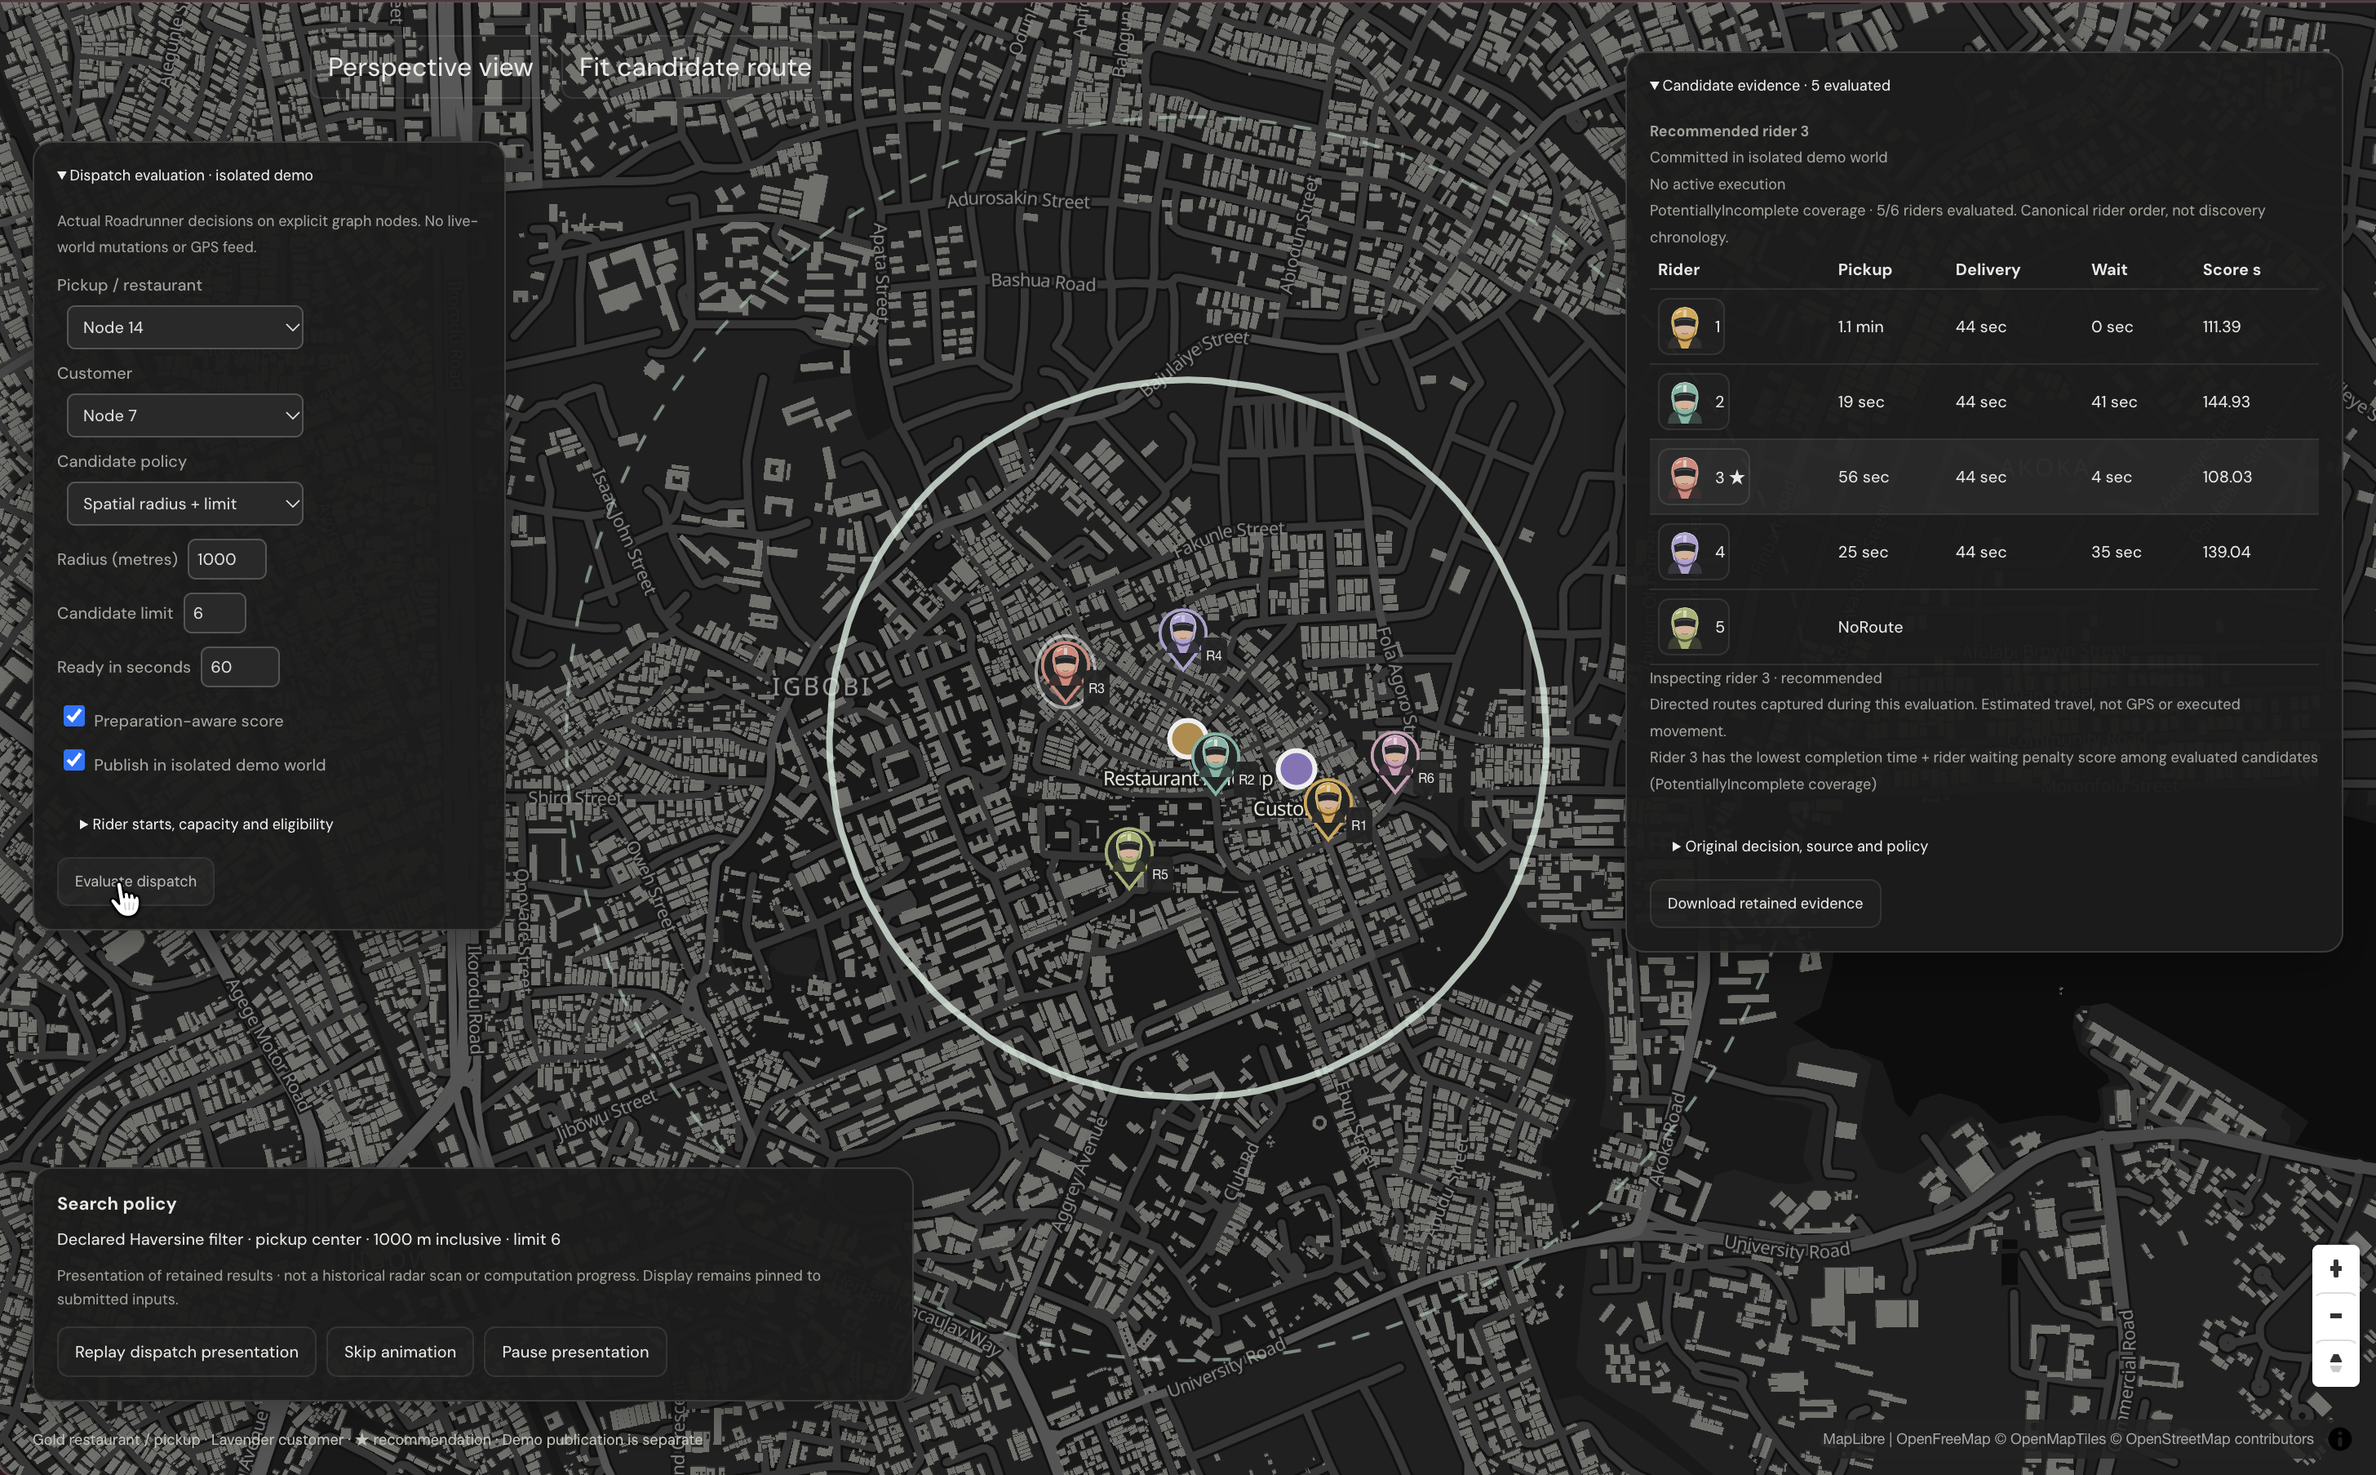
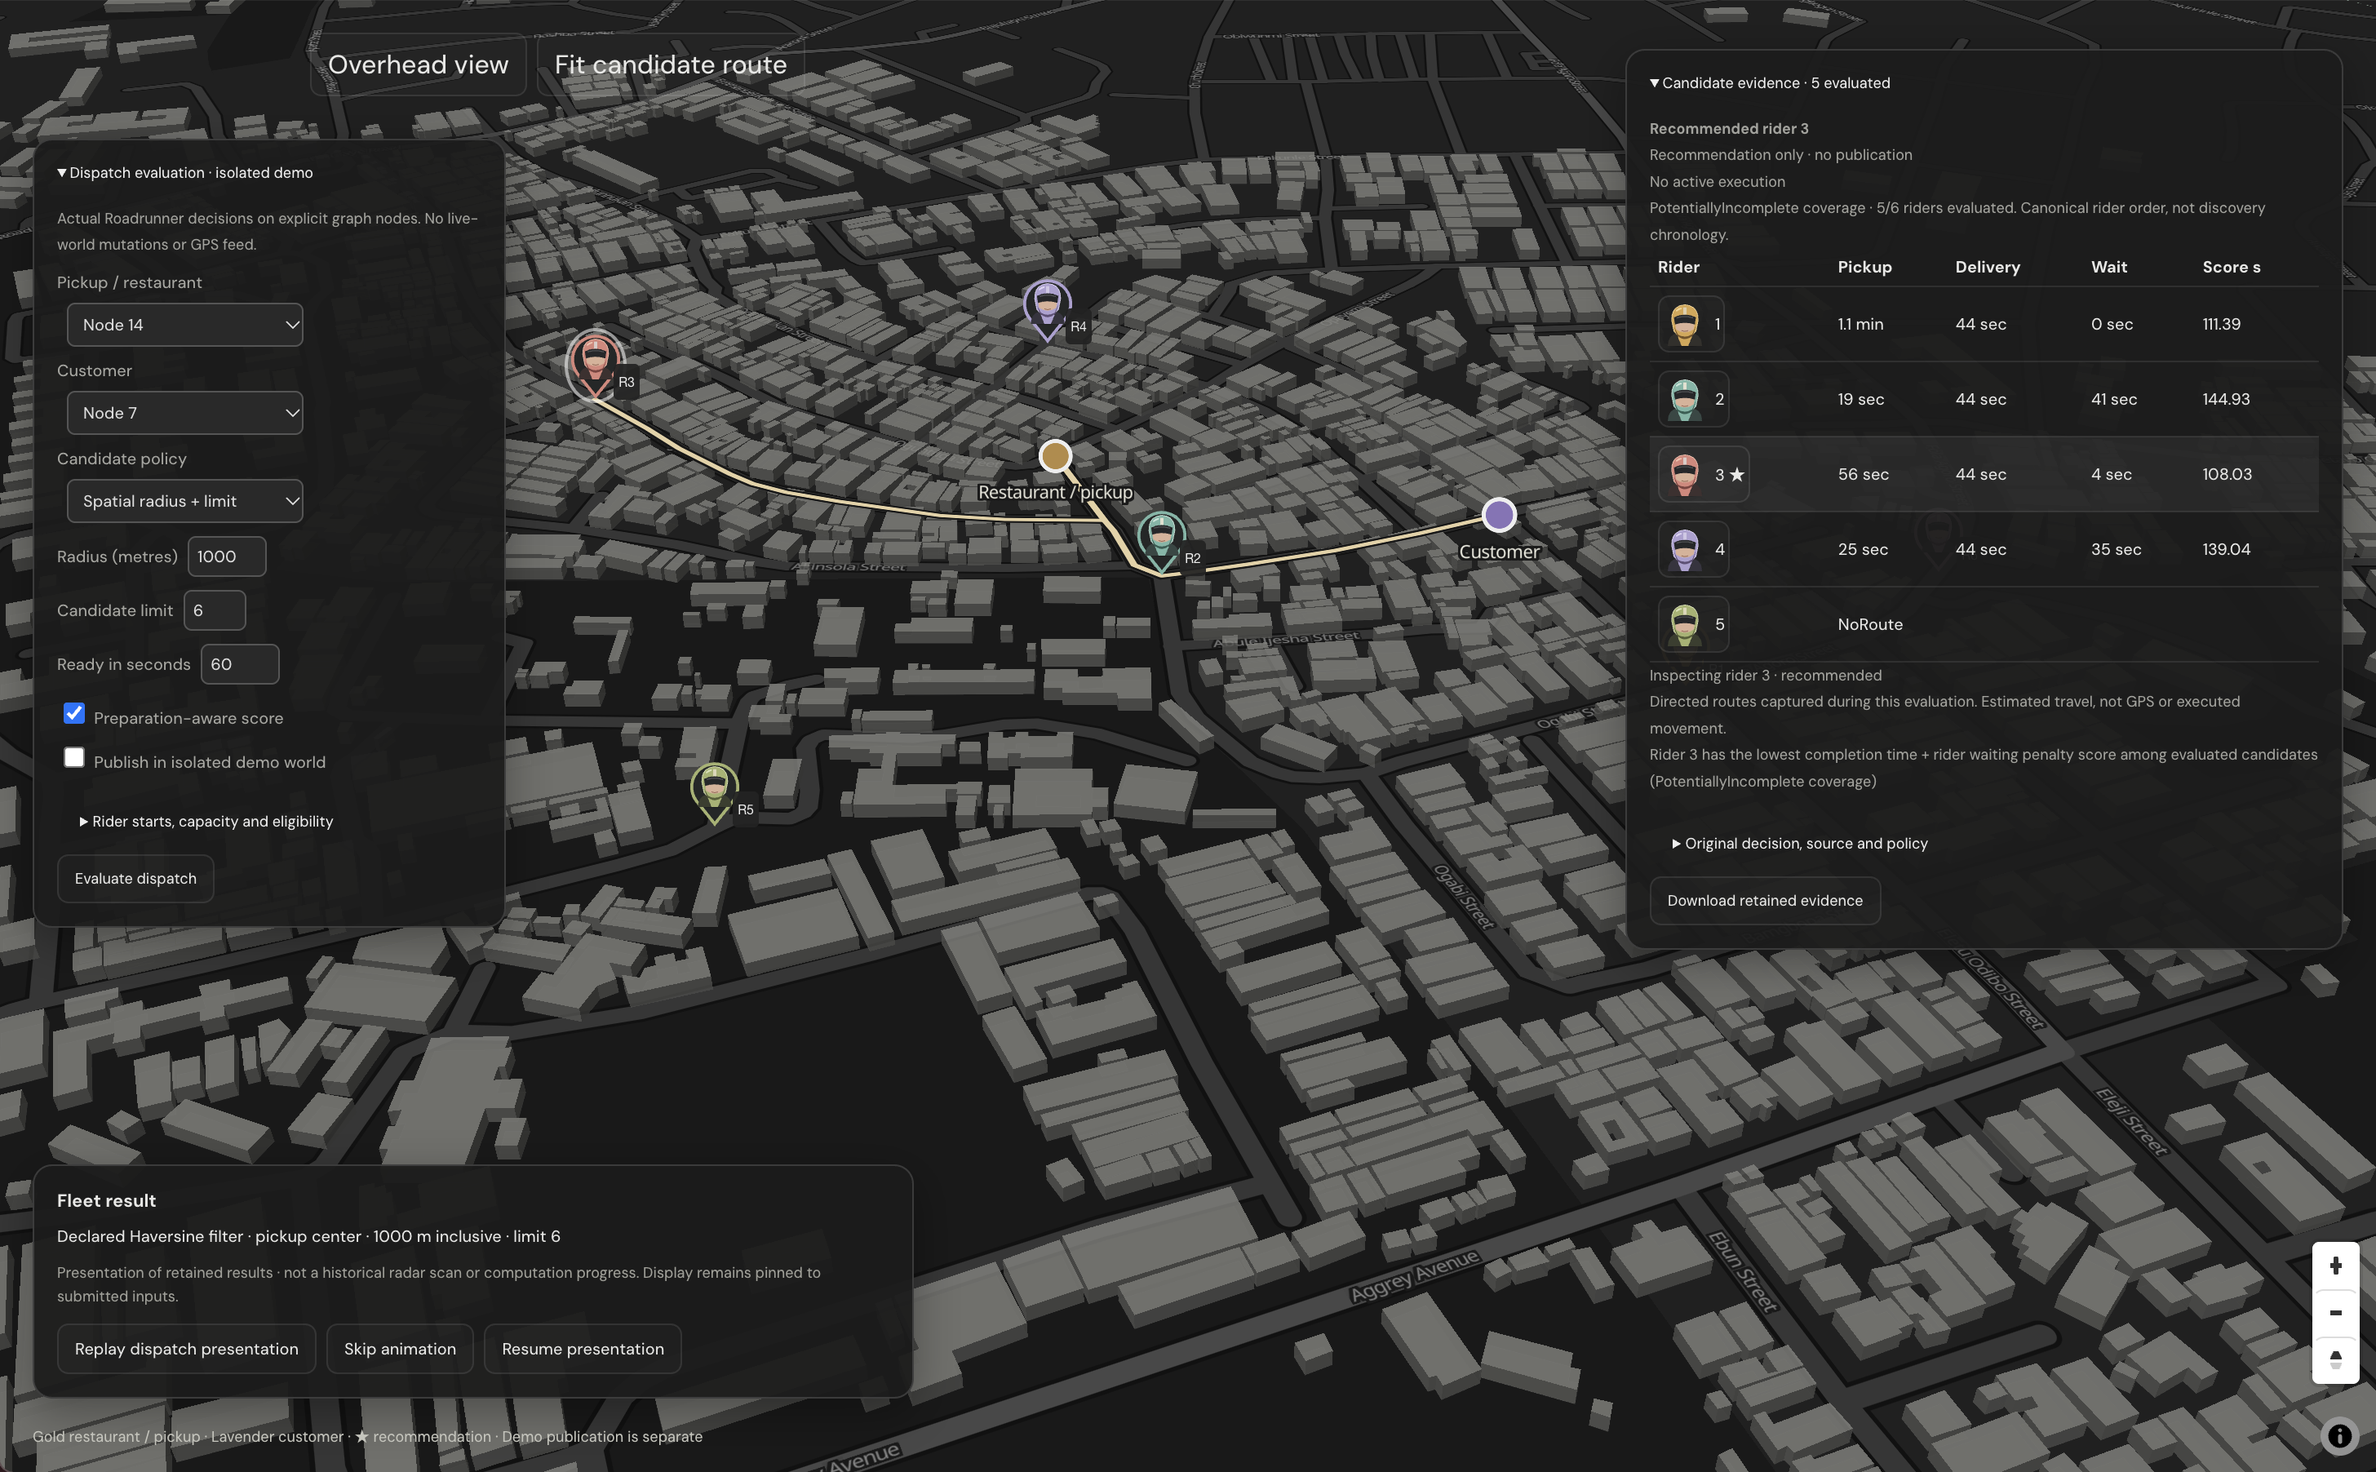
fix(web): improve workspace entry and responsive navigation

diff --git a/web/src/Site.tsx b/web/src/Site.tsx
@@ -1,17 +1,39 @@
-import { useEffect } from "react";
+import { useEffect, useRef, useState } from "react";
 import {
   ArrowRight,
   Route,
   ScanLine,
   FlaskConical,
   BookOpen,
-  Github,
+  Menu,
+  X,
   ArrowUpRight,
 } from "lucide-react";
 import { EngineDemo } from "./EngineDemo";
 import { Documentation } from "./Documentation";
 const repository = "https://github.com/404khai/roadrunner";
 export function Site() {
+  const [menuOpen, setMenuOpen] = useState(false);
+  const header = useRef<HTMLElement>(null),
+    menuButton = useRef<HTMLButtonElement>(null);
+  useEffect(() => {
+    if (!menuOpen) return;
+    const key = (event: KeyboardEvent) => {
+      if (event.key === "Escape") {
+        setMenuOpen(false);
+        menuButton.current?.focus();
+      }
+    };
+    const outside = (event: PointerEvent) => {
+      if (!header.current?.contains(event.target as Node)) setMenuOpen(false);
+    };
+    document.addEventListener("keydown", key);
+    document.addEventListener("pointerdown", outside);
+    return () => {
+      document.removeEventListener("keydown", key);
+      document.removeEventListener("pointerdown", outside);
+    };
+  }, [menuOpen]);
   const docs = window.location.pathname.startsWith("/docs");
   useEffect(() => {
     document.title = docs
@@ -23,18 +45,37 @@ export function Site() {
       <a className="skip-content" href="#content">
         Skip to content
       </a>
-      <header className="site-header">
+      <header className="site-header" ref={header}>
         <a className="brand" href="/" aria-label="Roadrunner home">
           <img src="/roadrunner-mark.png" alt="" /> roadrunner
         </a>
-        <nav aria-label="Main navigation">
+        <button
+          ref={menuButton}
+          className="menu-toggle"
+          type="button"
+          aria-label={menuOpen ? "Close navigation" : "Open navigation"}
+          aria-expanded={menuOpen}
+          aria-controls="site-navigation"
+          onClick={() => setMenuOpen((open) => !open)}
+        >
+          {menuOpen ? <X size={23} /> : <Menu size={23} />}
+        </button>
+        <nav
+          id="site-navigation"
+          aria-label="Main navigation"
+          data-open={menuOpen}
+          onClick={() => setMenuOpen(false)}
+        >
           <a href="/#engine">The engine</a>
           <a href="/#how-it-works">How it works</a>
           <a href="/docs" aria-current={docs ? "page" : undefined}>
             Documentation
           </a>
+          <a className="site-button compact mobile-workspace" href="/workspace">
+            <Route size={16} /> Open workspace
+          </a>
         </nav>
-        <a className="site-button compact" href="/workspace">
+        <a className="site-button compact desktop-workspace" href="/workspace">
           Open workspace <ArrowUpRight size={15} />
         </a>
       </header>
@@ -45,7 +86,7 @@ export function Site() {
         </a>
         <span>Routing, dispatch & delivery simulation.</span>
         <a className="footer-icon-link" href={repository}>
-          <Github size={16} aria-hidden="true" /> GitHub
+          <GitHubMark size={16} /> GitHub
         </a>
         <a className="footer-icon-link" href="/docs">
           <BookOpen size={16} aria-hidden="true" /> Documentation
@@ -270,7 +311,7 @@ function Landing() {
         </p>
         <div className="site-actions">
           <a className="site-button" href={repository}>
-            <Github size={18} aria-hidden="true" /> View on GitHub
+            <GitHubMark size={18} /> View on GitHub
           </a>
           <a className="site-button secondary" href="/docs">
             <BookOpen size={18} aria-hidden="true" /> Read the documentation
@@ -281,5 +322,20 @@ function Landing() {
         </p>
       </section>
     </main>
+  );
+}
+
+function GitHubMark({ size }: { size: number }) {
+  return (
+    <svg
+      width={size}
+      height={size}
+      viewBox="0 0 24 24"
+      fill="currentColor"
+      aria-hidden="true"
+      className="github-mark"
+    >
+      <path d="M12 .297C5.37.297 0 5.67 0 12.297c0 5.303 3.438 9.8 8.205 11.385.6.113.82-.258.82-.577 0-.285-.01-1.04-.015-2.04-3.338.724-4.043-1.61-4.043-1.61-.546-1.387-1.333-1.756-1.333-1.756-1.09-.745.083-.729.083-.729 1.205.084 1.838 1.237 1.838 1.237 1.07 1.835 2.809 1.305 3.495.998.108-.776.418-1.305.762-1.605-2.665-.305-5.467-1.334-5.467-5.931 0-1.31.467-2.381 1.235-3.221-.123-.303-.535-1.524.117-3.176 0 0 1.008-.322 3.301 1.23a11.52 11.52 0 0 1 3.003-.404c1.02.005 2.047.138 3.006.404 2.291-1.552 3.297-1.23 3.297-1.23.654 1.652.242 2.873.119 3.176.77.84 1.233 1.911 1.233 3.221 0 4.609-2.807 5.624-5.479 5.921.43.372.823 1.102.823 2.222 0 1.606-.015 2.898-.015 3.293 0 .322.216.694.825.576C20.565 22.092 24 17.597 24 12.297c0-6.627-5.373-12-12-12" />
+    </svg>
   );
 }

diff --git a/web/src/site.css b/web/src/site.css
@@ -14,8 +14,7 @@
   text-decoration: none;
 }
 .site a:hover {
-  text-decoration: underline;
-  text-underline-offset: 5px;
+  text-decoration: none;
 }
 .site button:focus-visible,
 .site a:focus-visible,
@@ -1002,4 +1001,93 @@ body[data-surface="site"] {
 }
 .site .footer-icon-link svg {
   flex-shrink: 0;
+}
+
+.site-header {
+  position: sticky;
+  top: 0;
+  z-index: 100;
+  background: #fafaf6f5;
+  backdrop-filter: blur(14px);
+}
+.site .menu-toggle,
+.site .mobile-workspace {
+  display: none;
+}
+.site .menu-toggle {
+  align-items: center;
+  justify-content: center;
+  width: 44px;
+  height: 44px;
+  border: 1px solid var(--line);
+  border-radius: 7px;
+  background: transparent;
+  color: var(--ink);
+}
+.site a:hover {
+  text-decoration: none;
+}
+.site-header nav > a:not(.site-button):hover {
+  color: var(--sage);
+}
+.site .site-button:hover {
+  filter: brightness(1.1);
+}
+.site section[id],
+.site #demo {
+  scroll-margin-top: 120px;
+}
+.site .github-mark {
+  display: block;
+  flex-shrink: 0;
+}
+@media (max-width: 800px) {
+  .site .site-header {
+    height: 76px;
+    min-height: 76px;
+    flex-wrap: nowrap;
+    padding: 12px 24px;
+  }
+  .site .desktop-workspace {
+    display: none;
+  }
+  .site .menu-toggle {
+    display: inline-flex;
+    margin-left: auto;
+  }
+  .site .site-header nav {
+    display: none;
+    position: absolute;
+    top: 100%;
+    left: 0;
+    right: 0;
+    order: initial;
+    width: auto;
+    padding: 20px 24px 24px;
+    background: var(--paper);
+    border-bottom: 1px solid var(--line);
+    box-shadow: 0 16px 24px #30332f12;
+    font-size: 15px;
+    gap: 6px;
+  }
+  .site .site-header nav[data-open="true"] {
+    display: flex;
+    flex-direction: column;
+    align-items: stretch;
+  }
+  .site .site-header nav > a {
+    padding: 13px 12px;
+    border-radius: 6px;
+  }
+  .site .site-header nav > a:hover {
+    background: #edf0e7;
+  }
+  .site .site-header nav .mobile-workspace {
+    display: flex;
+    margin-top: 10px;
+  }
+  .site section[id],
+  .site #demo {
+    scroll-margin-top: 96px;
+  }
 }

diff --git a/web/src/App.tsx b/web/src/App.tsx
@@ -1,6 +1,8 @@
 import { useCallback, useEffect, useRef, useState, useMemo } from "react";
 import {
   ArrowDownUp,
+  Bike,
+  ScanLine,
   ArrowRight,
   Check,
   ChevronDown,
@@ -350,18 +352,24 @@ export function App() {
                 Developer graph
               </button>
             </div>
-            <button
-              className="delivery-entry"
-              onClick={() => setDeliveryMode(true)}
+            <div
+              className="workspace-launchers"
+              role="group"
+              aria-label="Engine workspaces"
             >
-              Delivery simulation <ArrowRight size={15} />
-            </button>
-            <button
-              className="delivery-entry"
-              onClick={() => setDispatchMode(true)}
-            >
-              Dispatch visualization <ArrowRight size={15} />
-            </button>
+              <button
+                className="delivery-entry"
+                onClick={() => setDeliveryMode(true)}
+              >
+                <Bike size={19} aria-hidden="true" /> Delivery simulation
+              </button>
+              <button
+                className="delivery-entry"
+                onClick={() => setDispatchMode(true)}
+              >
+                <ScanLine size={19} aria-hidden="true" /> Dispatch visualization
+              </button>
+            </div>
             {debug.enabled && <GraphPanel debug={debug} route={route} />}
             <div hidden={debug.enabled} className="panel-intro">
               <h1>Route planner</h1>

diff --git a/web/tests/Site.test.tsx b/web/tests/Site.test.tsx
@@ -1,0 +1,26 @@
+// @vitest-environment jsdom
+import "@testing-library/jest-dom/vitest";
+import { afterEach, expect, it, vi } from "vitest";
+import { cleanup, fireEvent, render, screen } from "@testing-library/react";
+import { Site } from "../src/Site";
+vi.mock("../src/EngineDemo", () => ({ EngineDemo: () => null }));
+vi.mock("../src/Documentation", () => ({ Documentation: () => null }));
+afterEach(cleanup);
+it("opens navigation and closes it on Escape, outside click and link selection", () => {
+  render(<Site />);
+  const toggle = screen.getByRole("button", { name: "Open navigation" });
+  fireEvent.click(toggle);
+  expect(toggle).toHaveAttribute("aria-expanded", "true");
+  fireEvent.keyDown(document, { key: "Escape" });
+  expect(toggle).toHaveAttribute("aria-expanded", "false");
+  expect(toggle).toHaveFocus();
+  fireEvent.click(toggle);
+  fireEvent.pointerDown(document.body);
+  expect(toggle).toHaveAttribute("aria-expanded", "false");
+  fireEvent.click(toggle);
+  fireEvent.click(screen.getByRole("link", { name: "The engine" }));
+  expect(toggle).toHaveAttribute("aria-expanded", "false");
+  const cta = screen.getByRole("link", { name: "View on GitHub" });
+  expect(cta.querySelector("svg.github-mark")).not.toBeNull();
+  expect(cta.textContent).not.toMatch(/[↗→]/);
+});

diff --git a/web/src/styles.css b/web/src/styles.css
@@ -3511,3 +3511,37 @@ h1 > span {
 .delivery-workspace:has(.delivery-dispatch-audit:not([open])) .navigation-card {
   top: 174px;
 }
+
+.workspace-launchers {
+  display: grid;
+  gap: 9px;
+  padding: 14px 20px 20px;
+  flex-shrink: 0;
+}
+.workspace-launchers .delivery-entry {
+  margin: 0;
+  padding: 13px 14px;
+  min-height: 48px;
+  width: 100%;
+  justify-content: flex-start;
+  gap: 11px;
+  border: 1px solid #cfd2c8;
+  background: #edf0e7;
+  color: #30332f;
+  font-size: 13px;
+  font-weight: 600;
+  border-radius: 8px;
+  box-shadow: 0 1px 2px #30332f08;
+}
+.workspace-launchers .delivery-entry:hover {
+  background: #dfe6d7;
+  opacity: 1;
+}
+.workspace-launchers .delivery-entry svg {
+  color: #536447;
+  flex-shrink: 0;
+}
+.workspace-launchers .delivery-entry:focus-visible {
+  outline: 2px solid #66765b;
+  outline-offset: 3px;
+}

diff --git a/docs/landing-page.md b/docs/landing-page.md
@@ -82,7 +82,7 @@ portrait identity. Existing renderer/evidence tests remain applicable. Browser c
 and the final verification results are retained under `docs/evidence/landing-page`.
 Guide screenshots in `web/public/docs/{delivery,dispatch,routing}.png` are actual running workspaces. The bento uses the user-supplied immersive, perspective dispatch and alternatives screenshots from `references`, copied as `engine-*.png`; these are reference captures, not new browser-verification evidence.
 
-Final checks: 81/81 frontend tests in 20 files passed using one worker and a 15-second
+Final checks: 82/82 frontend tests in 21 files passed using one worker and a 15-second
 per-test timeout on this busy host; initial parallel runs hit existing interaction-test
 timeouts. Lint, format, production build and public-reference drift check passed.
 The build retains Vite's large-chunk advisory for the MapLibre/3D workspace bundle.
@@ -99,3 +99,5 @@ The delivery mini-view exposes overhead, perspective 2.5D and immersive 3D via t
 User-requested follow-up verified automatic playback and paused-time preservation when switching the mini-view to perspective and immersive modes. See [mini perspective](evidence/landing-page/mini-perspective.png), [mini 3D](evidence/landing-page/mini-3d.png), and [mobile 3D](evidence/landing-page/mini-3d-mobile.png). Delivery playback spans the captured event interval through its final retained frame, rather than padding the demonstration with the scenario’s idle configured horizon.
 
 Every shell snippet, API operation and schema code block includes a copy control and syntax coloring. Copying preserves exact source bytes; success and clipboard-denial states are announced. Browser verification confirmed exact clipboard content and no mobile horizontal overflow. See [mobile copy controls](evidence/landing-page/docs-copy-mobile.png). React text rendering keeps example markup inert.
+
+Navigation follow-up: a sticky site header provides an accessible mobile hamburger dropdown (Escape, outside-pointer and link-selection dismissal). Landing hover links have no underline; GitHub actions use the filled GitHub mark. Routing-workspace launchers now use dark text and icons on visible light button surfaces. Browser checks confirm sticky positioning, menu dismissal, no mobile overflow and delivery-workspace entry. See [mobile navigation](evidence/landing-page/mobile-menu.png), [workspace buttons](evidence/landing-page/workspace-buttons.png), and [sticky header and GitHub CTA](evidence/landing-page/sticky-header-github.png). Bento captures are matched to their actual scene: immersive fleet, tilted dispatch and alternative routes.
